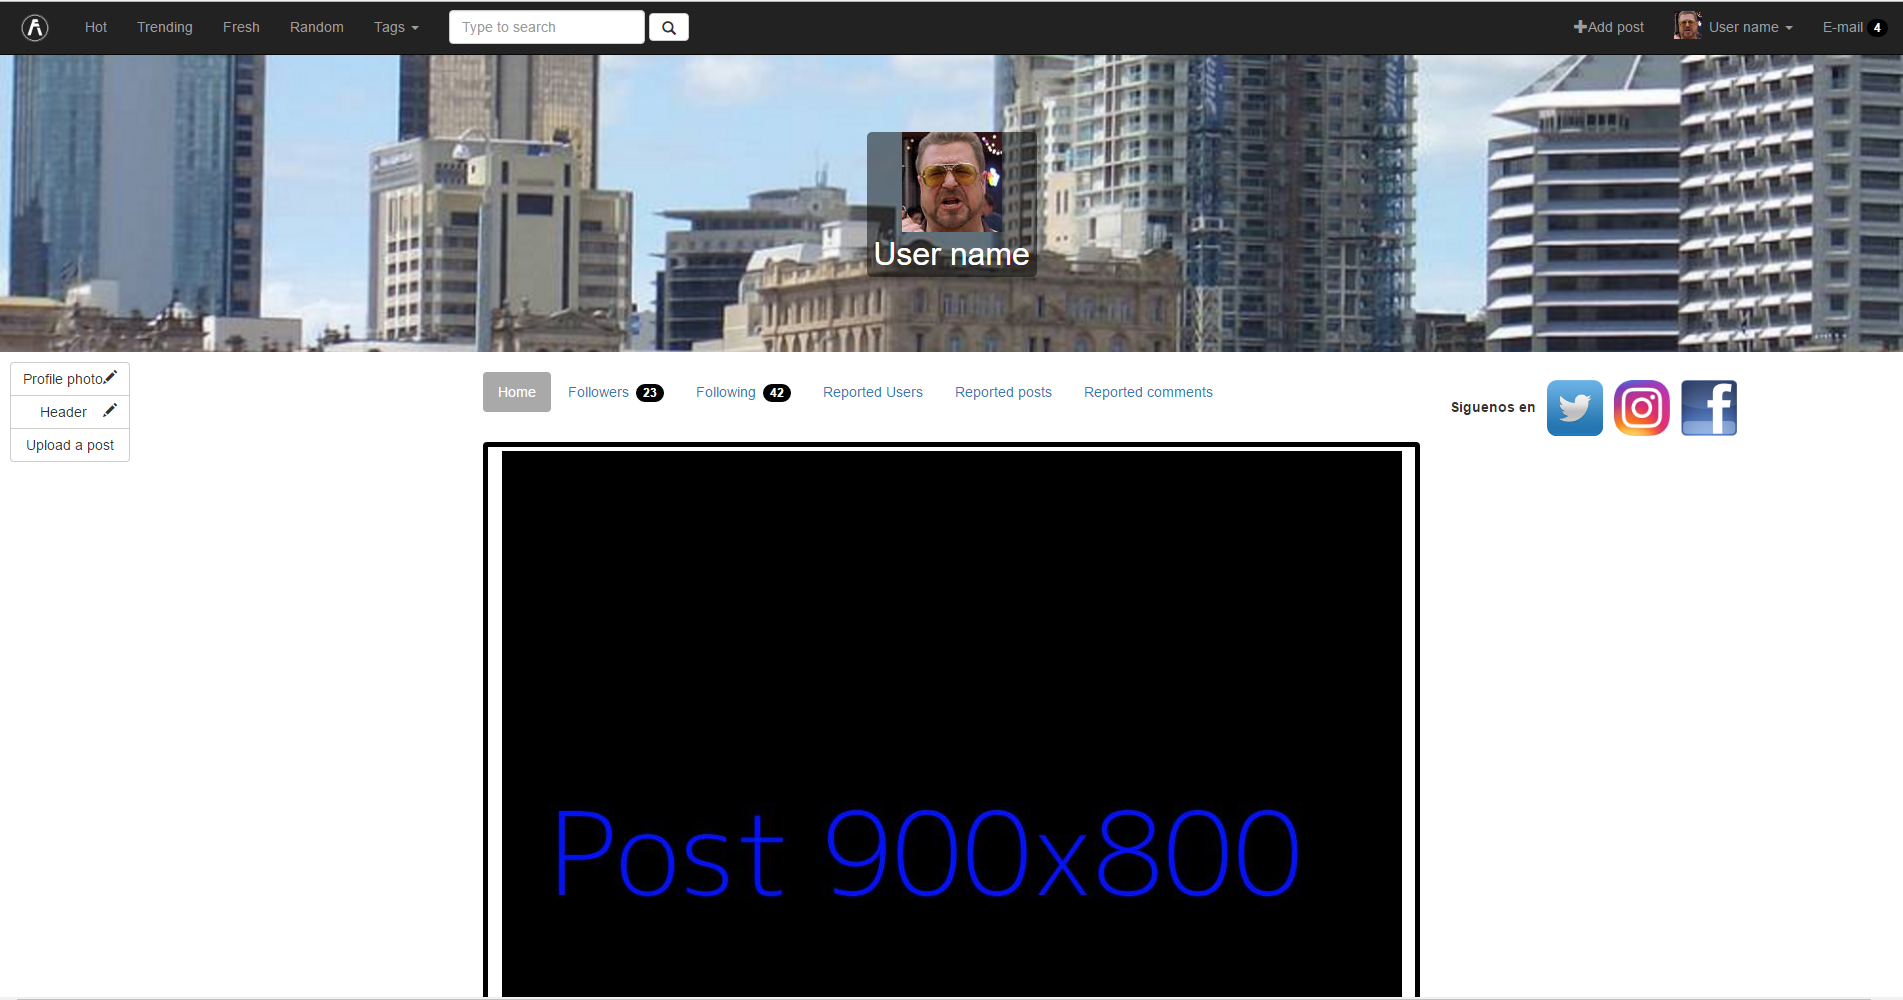
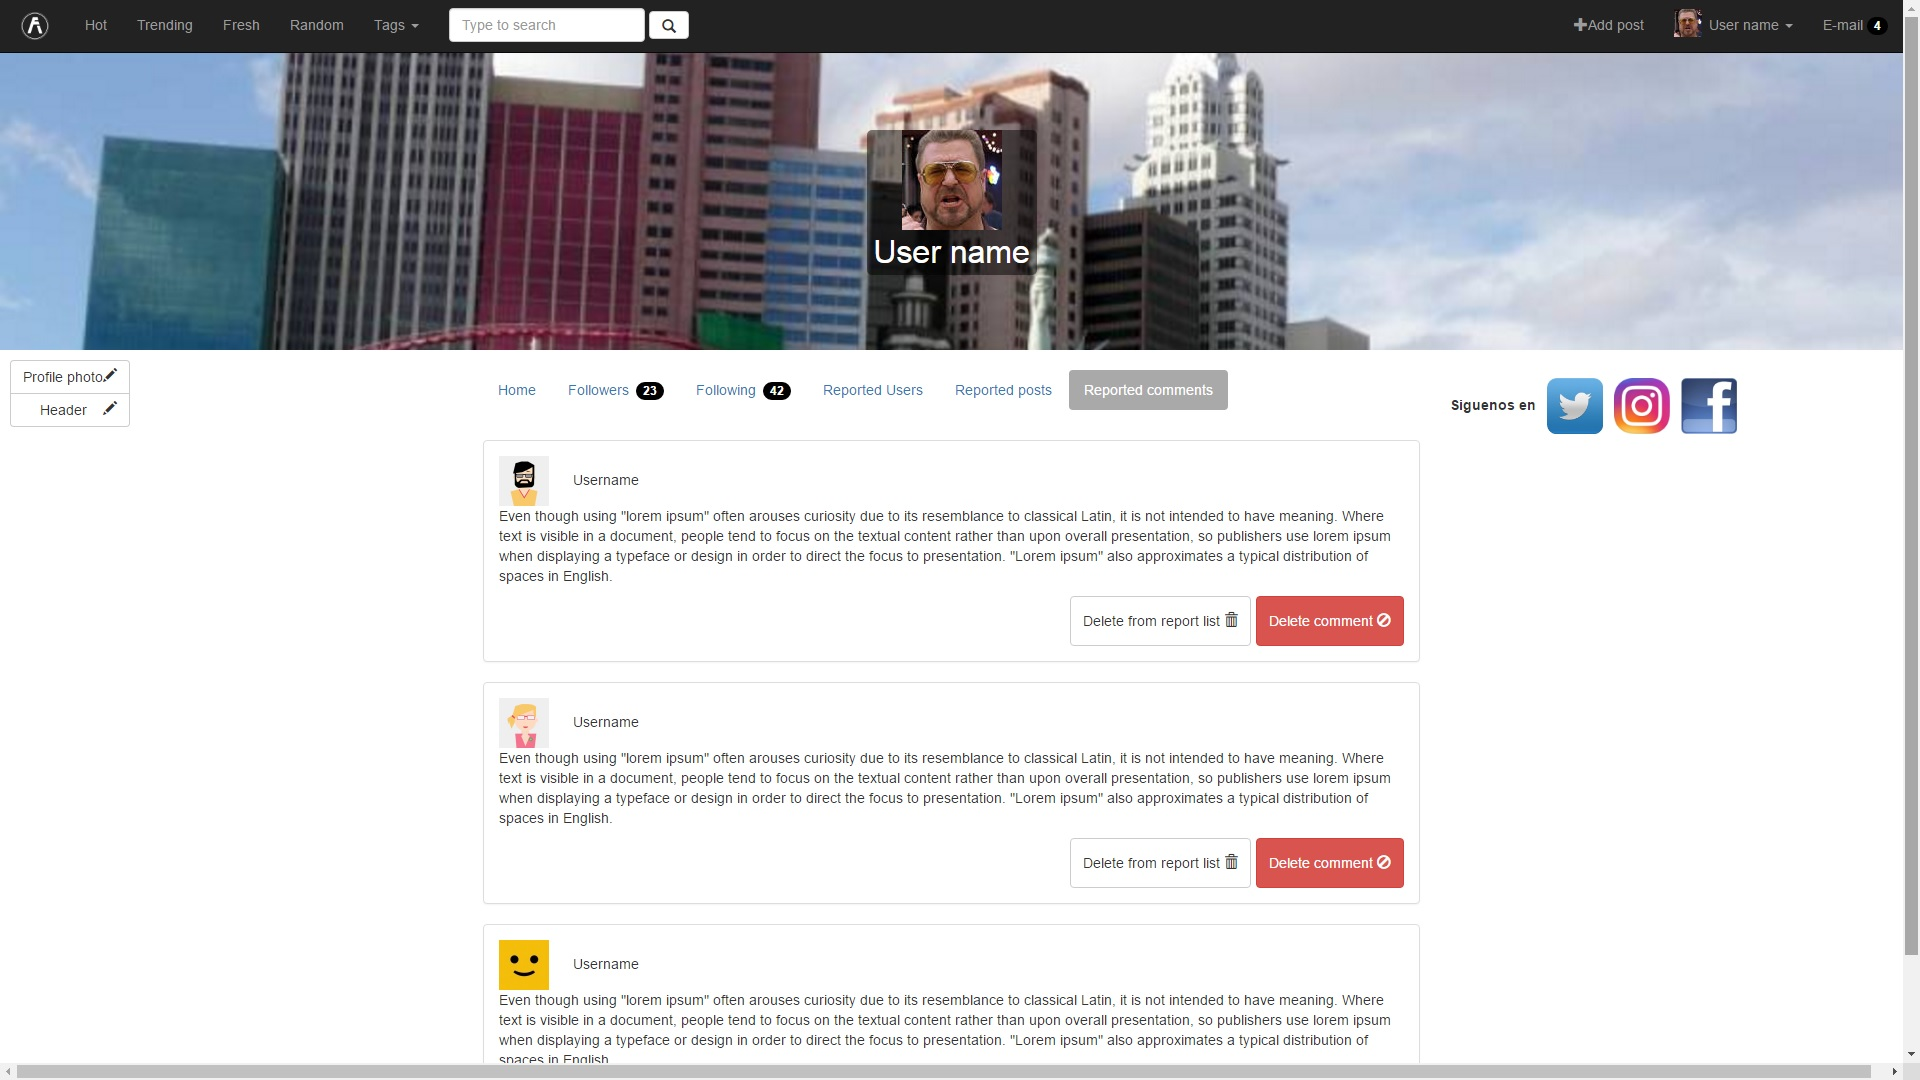
Modified README
Changed image corresponding to the Admin profile so that it shows one of
his unique options.
Also added a few more screenshots and information.

diff --git a/README.md b/README.md
@@ -36,28 +36,42 @@
 
 En esta pantalla se muestra la página principal, en la que tenemos un navegador para ir a las diferentes categorías, un buscador y el inicio de seseión o registro. En esta página se visualizaran los post en el centro, a la derecha las redes sociales de la página y a la izquierda el post más votado del mes y del año.
 
+### Comentarios
+
+![GitHub Logo](/screenshots/comments.png)
+
+Los comentarios aparecen después del post si se hace click sobre "Comments". Solo los usuarios registrados pueden comentar, pero todos los visitantes pueden ver los comentarios.
+
+### Registro e inicio de sesión.
+
+![GitHub Logo](/screenshots/register.png)
+![GitHub Logo](/screenshots/login.png)
+
+Para acceder a funcionalidades adicionales los usuarios pueden registrarse o iniciar sesión con su cuenta.
+
 ### Perfil de usuario
 
 ![GitHub Logo](/screenshots/profile.png)
 
 Aquí se visualiza el perfil de un usuario que ha iniciado sesión en la página. La barra de navegación anterior se mantiene en todas las páginas de la web, aunque cuando un usuario ha iniciado sesión se muestra el número de mensajes que tiene sin leer. El usuario puede ver en el centro los post que ha publicado el mismo. A la izquierda tiene las pestañas que le permiten editar su foto de perfil y la de la cabecera. 
 
+### Ajustes de perfil
+
+![GitHub Logo](/screenshots/ajustes.png)
+
+Los usuarios pueden modificar algunas opciones de su perfil, por ejemplo, modificar su cintraseña o decidir si quieren recibir notificaciones a su correo electrónico.
+
 ### Mensajes
 
 ![GitHub Logo](/screenshots/mensajes.png)
+![GitHub Logo](/screenshots/conversacion.png)
 
-Los usuarios pueden enviarse mensajes entre ellos. El contenido principal de esta ventana tiene; a la izquierda un pequeño menú para visualizar los mensajes recibidos, el borrador y los eliminados; en el centro se ven los distintos mensajes recibidos en este caso y encima hay tres botones para crear un nuevo mensaje, eliminar uno y seleccionar todos; a la derecha están de nuevo las redes sociales de la página, que se mantienen en todas las páginas.
-
-### Comentarios
-
-![GitHub Logo](/screenshots/comments.png)
-
-Los comentarios aparecen después del post si se hace click sobre "Comments". Solo los usuarios registrados pueden comentar.
+Los usuarios pueden enviarse mensajes entre ellos. El contenido principal de esta ventana tiene; a la izquierda un pequeño menú para visualizar los mensajes recibidos, el borrador y los eliminados; en el centro se ven los distintos mensajes recibidos en este caso y encima hay tres botones para crear un nuevo mensaje, eliminar uno y seleccionar todos; a la derecha están de nuevo las redes sociales de la página, que se mantienen en todas las páginas. Una vez enviado un mensaje se crea una conversación a la que se puede acceder presionando sobre la fila correspondiente al usuario.
 
 ### Administrador
 
-![GitHub Logo](/screenshots/comments.png)
+![GitHub Logo](/screenshots/admin-profile.png)
 
-El perfil del administrador es casi idéntico que el de un usuario corriente, excepto que están las pestañas de usuarios, post y comentarios que han sido denunciados.
+El perfil del administrador es casi idéntico que el de un usuario corriente con una diferencia, tiene pestañas de usuarios, post y comentarios que han sido denunciados.
 
 
